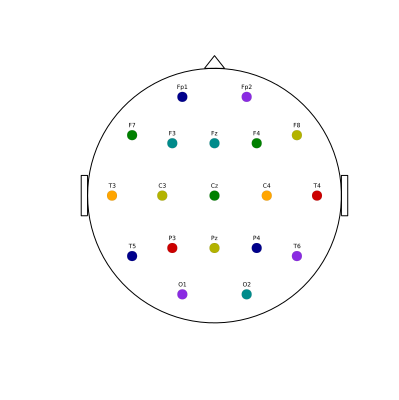
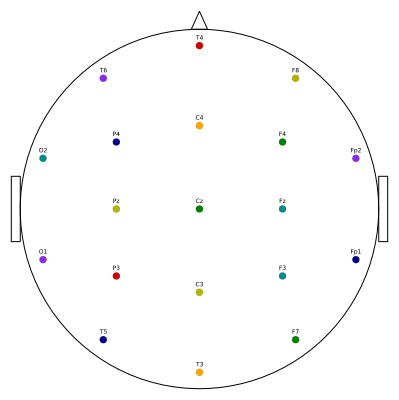
update: Tutorial.md

diff --git a/Tutorial.md b/Tutorial.md
@@ -36,7 +36,7 @@ The tutorial is divided into five major steps of typical pipeline:
 
 Load EDF file:
 ```julia
-edf = eeg_import_edf("test/eeg-test-edf.edf")
+edf = eeg_import_edf("test/eeg-test-edf.edf");
 eeg_delete_channel!(edf, channel=[17, 18, 22, 23, 24]);
 ```
 
@@ -67,10 +67,9 @@ Convert spherical to Cartesian coordinates:
 ```julia
 eeg_loc_sph2cart!(edf)
 eeg_loc_cart2sph!(edf)
-eeg_plot_electrodes3d(edf, selected=1:19)
 ```
 
-If necessary, flip or swap axes (frontal channel should be at the top):
+If necessary, flip or swap axes (frontal channels should be at the top):
 ```julia
 eeg_load_electrodes!(edf, file_name="locs/standard-10-20-cap19-elmiko.ced")
 
@@ -86,11 +85,14 @@ edf = eeg_loc_swapxy(edf);
 
 p = eeg_plot_electrode(edf, channel=1)
 p = eeg_plot_electrodes(edf, labels=true, selected=1)
-p = eeg_plot_electrodes(edf, labels=true)
+p = eeg_plot_electrodes(edf, selected=1:19)
+eeg_plot_save(p, file_name="images/edf_electrodes_xy.png")
 p = eeg_plot_electrodes3d(edf, selected=1)
+eeg_plot_save(p, file_name="images/edf_electrodes3d_xy.png")
 ```
 
 ![](images//edf_electrodes_xy.png)
+![](images//edf_electrodes3d_xy.png)
 
 Save EEG object as HDF5-based file:
 ```julia
